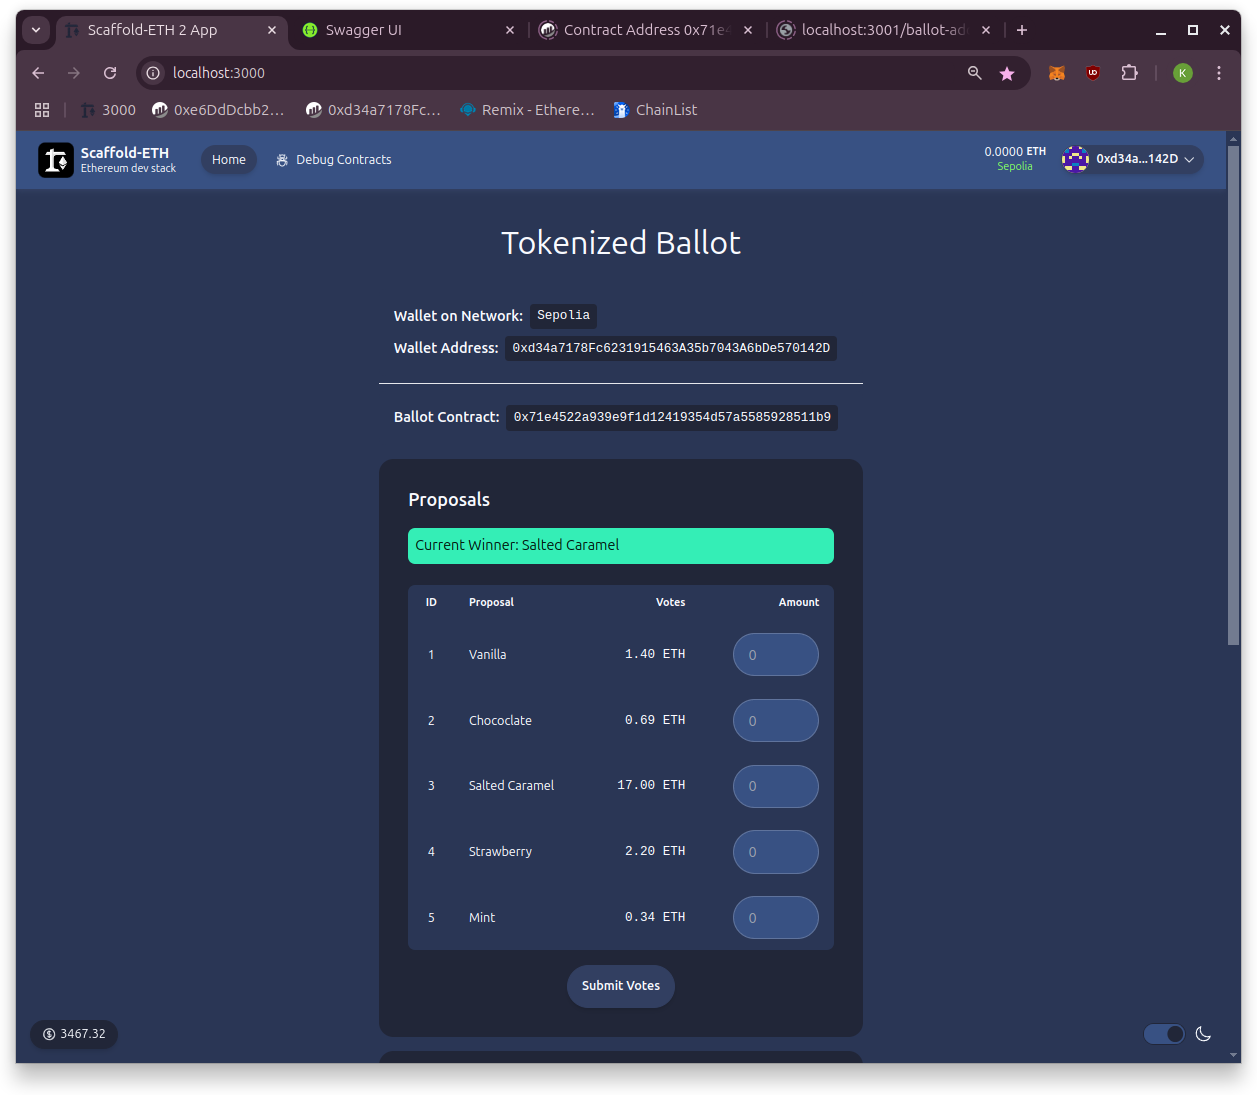
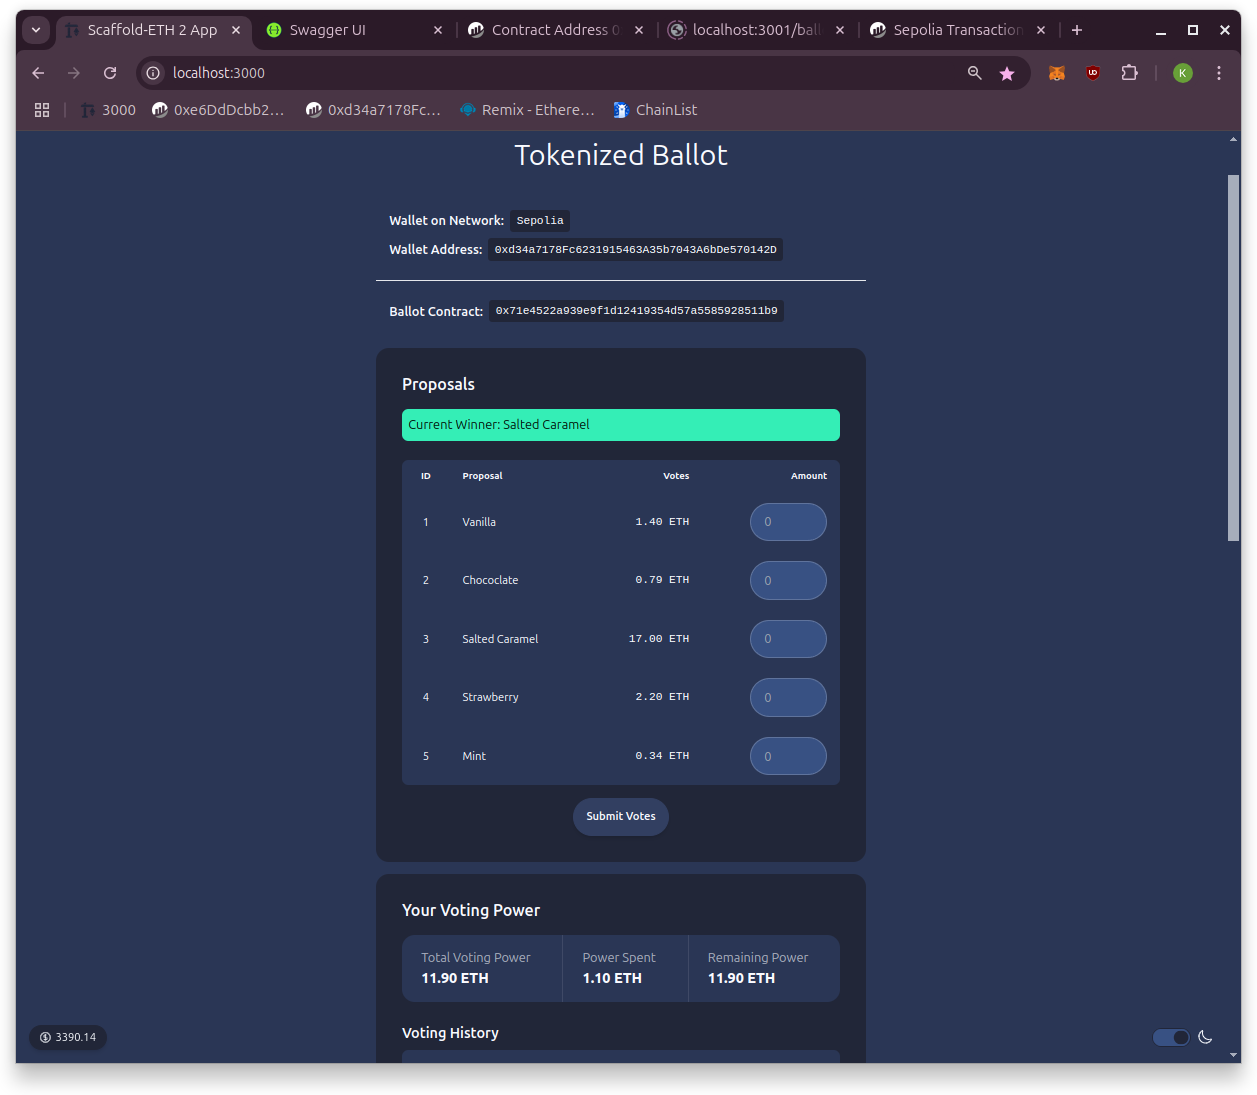
voting history

diff --git a/frontend/packages/nextjs/components/VotingPower.tsx b/frontend/packages/nextjs/components/VotingPower.tsx
@@ -1,22 +1,26 @@
 import { useEffect, useState } from "react";
 import { formatEther } from "viem";
 
+interface Vote {
+  proposalName: string;
+  proposalId: number;
+  voteCount: string;
+}
+
+interface VotingHistoryData {
+  voter: string;
+  votePowerSpent: string;
+  remainingVotePower: string;
+  votes: Vote[];
+}
+
 interface VotingPowerProps {
   address: `0x${string}`;
 }
 
 export function VotingPower({ address }: VotingPowerProps) {
   const [totalPower, setTotalPower] = useState<string>();
-  const [votingHistory, setVotingHistory] = useState<{
-    voter: string;
-    votePowerSpent: string;
-    remainingVotePower: string;
-    votes: Array<{
-      proposalName: string;
-      proposalId: number;
-      voteCount: string;
-    }>;
-  }>();
+  const [votingHistory, setVotingHistory] = useState<VotingHistoryData>();
   const [isLoading, setLoading] = useState(true);
   const [error, setError] = useState<string | null>(null);
 
@@ -38,15 +42,12 @@ export function VotingPower({ address }: VotingPowerProps) {
     fetch(`http://localhost:3001/ballot/voting-history/${address}`)
       .then(res => res.json())
       .then(data => {
-        console.log(data);
         setVotingHistory(data);
       })
       .catch(err => {
         console.error("Error fetching voting history:", err);
       });
   }, [address]);
-
-  console.log(votingHistory);
 
   if (isLoading) return <div>Loading voting power...</div>;
   if (error) return <div>Error loading voting power: {error}</div>;

diff --git a/frontend/packages/nextjs/components/TokenInfo.tsx b/frontend/packages/nextjs/components/TokenInfo.tsx
@@ -6,7 +6,11 @@ type TokenInfoData = {
   totalSupply: string;
 };
 
-export function TokenInfo() {
+interface TokenInfoProps {
+  address: string;
+}
+
+export const TokenInfo: React.FC<TokenInfoProps> = ({ address }) => {
   const [tokenInfo, setTokenInfo] = useState<TokenInfoData | null>(null);
   const [isLoading, setIsLoading] = useState(true);
   const [error, setError] = useState<string | null>(null);
@@ -55,7 +59,8 @@ export function TokenInfo() {
       <h2 className="text-2xl font-bold mb-4">Token Information</h2>
       <div className="space-y-2">
         <div>
-          <span className="font-semibold">Token Name:</span> <span className="font-mono">{tokenInfo?.tokenName}</span>
+          <span className="font-semibold">Token Name:</span>
+          <code className="bg-base-300 px-2 py-1 rounded text-sm">{tokenInfo?.tokenName}</code>
         </div>
         <div>
           <span className="font-semibold">Contract Address:</span>{" "}
@@ -63,9 +68,9 @@ export function TokenInfo() {
         </div>
         <div>
           <span className="font-semibold">Total Supply:</span>{" "}
-          <span className="font-mono">{tokenInfo?.totalSupply}</span>
+          <code className="bg-base-300 px-2 py-1 rounded text-sm">{tokenInfo?.totalSupply}</code>
         </div>
       </div>
     </div>
   );
-}
+};

diff --git a/frontend/packages/nextjs/app/page.tsx b/frontend/packages/nextjs/app/page.tsx
@@ -25,7 +25,7 @@ const Home: NextPage = () => {
           <VotingPower address={address as `0x${string}`}></VotingPower>
           <hr className="mt-12"></hr>
           <TokenAddressFromApi>
-            {(tokenAddress: string) => <TokenInfo address={tokenAddress}></TokenInfo>}
+            {(tokenAddress: string) => (<TokenInfo address={tokenAddress} />) as any}
           </TokenAddressFromApi>
           <MintTokens address={address as `0x${string}`}></MintTokens>
           <hr className="mt-12"></hr>

diff --git a/frontend/packages/nextjs/components/RecentVotes.tsx b/frontend/packages/nextjs/components/RecentVotes.tsx
@@ -40,7 +40,7 @@ export const RecentVotes = () => {
 
   return (
     <div className="mt-8">
-      <h2 className="text-2xl font-bold mb-4">Recent Votes</h2>
+      <h2 className="text-2xl font-bold mb-4">Recent Votes (via API only)</h2>
       <div className="overflow-x-auto">
         <table className="min-w-full bg-white dark:bg-gray-800 rounded-lg overflow-hidden">
           <thead className="bg-gray-100 dark:bg-gray-700">

diff --git a/README.md b/README.md
@@ -1,14 +1,12 @@
 # Encode Solidity Bootcamp
 #### HW #4
 
-🚧 This is still a work in progress 🚧
-
 ## Scope
 
 ✓ Create a voting dApp to cast votes, delegate and query results on chain\
 ✓ Request voting tokens to be minted using the API\
 ✓ (bonus) Store a list of recent votes in the backend and display that on frontend\
-🚧 (bonus) Use an oracle to fetch off-chain data\
+🚧 (bonus-work in progress) Use an oracle to fetch off-chain data\
 &nbsp;&nbsp;&nbsp;&nbsp; Use an oracle to fetch information from a data source of your preference\
 &nbsp;&nbsp;&nbsp;&nbsp;Use the data fetched to create the proposals in the constructor of the ballot
 
@@ -30,6 +28,7 @@ Voting dApp integration guidelines
 
 ![frontend](./images/frontend_1.png)
 ![frontend](./images/frontend_2.png)
+![frontend](./images/frontend_3.png)
 
 ## Backend
 
